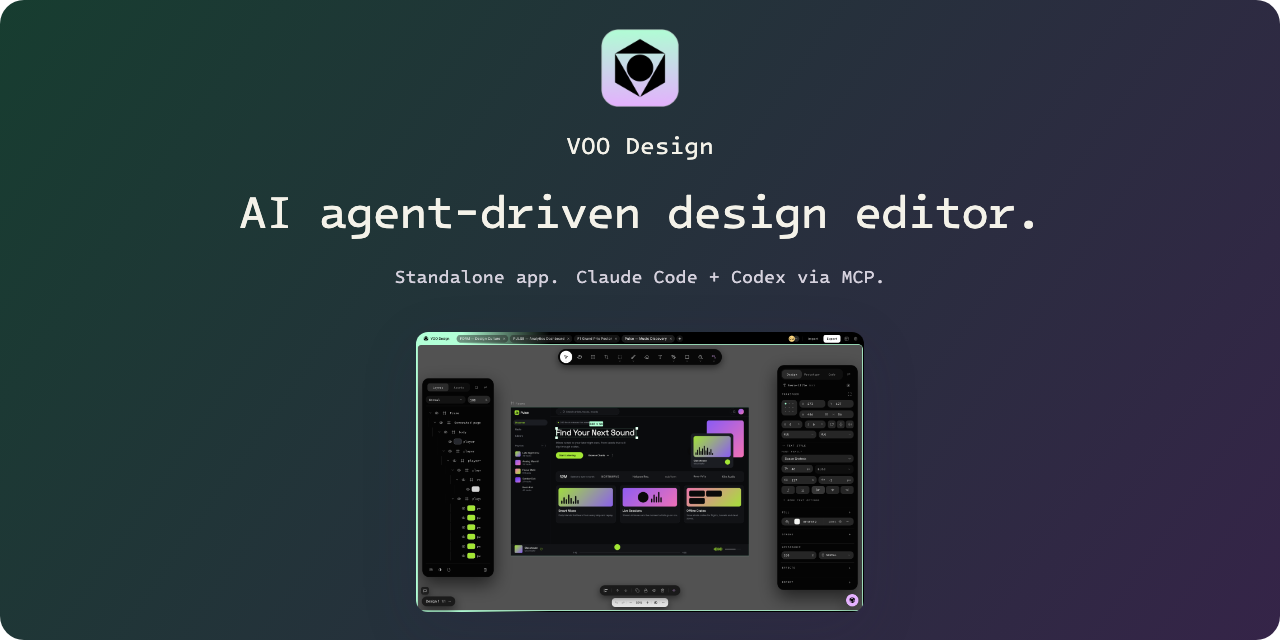
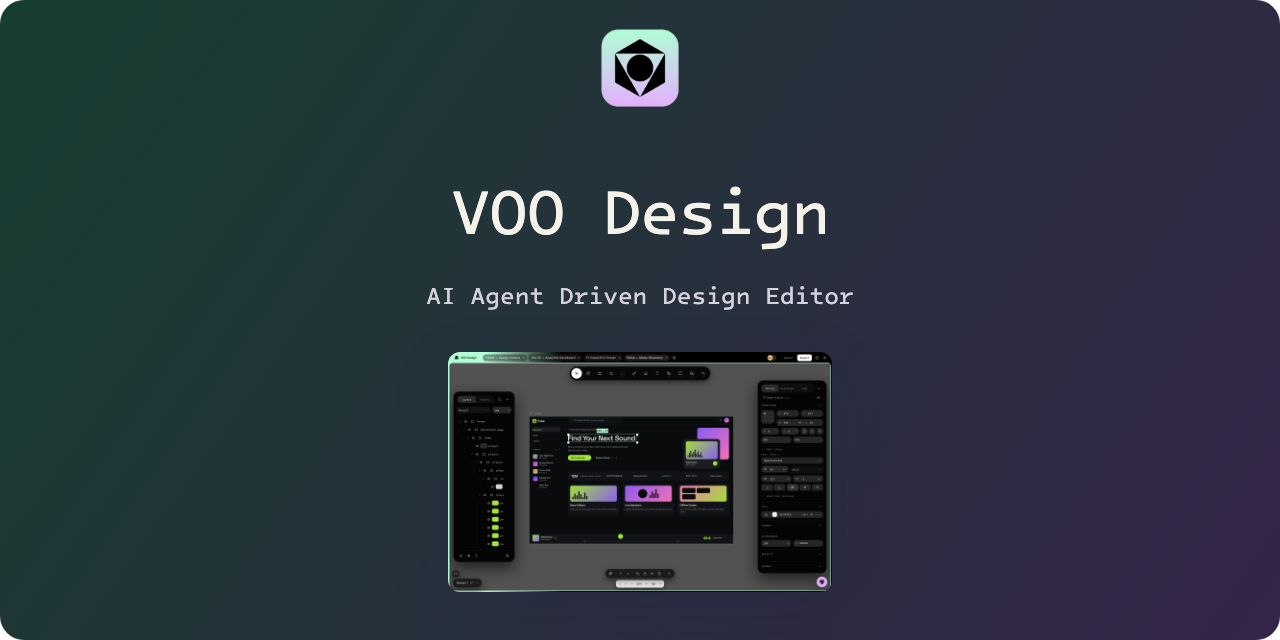
docs: double cover whitespace and clarify title hierarchy

Changed region(s): [[0.25, 0.2812, 0.8125, 0.9688], [0.4375, 0.2188, 0.5625, 0.25], [0.1875, 0.3125, 0.2188, 0.375]]

diff --git a/docs/screenshots/cover-source.html b/docs/screenshots/cover-source.html
@@ -16,32 +16,29 @@
       main {
         position: relative;
         width: 1800px;
-        height: 1720px;
+        height: 2344px;
         overflow: hidden;
         border-radius: 32px;
         background: linear-gradient(125deg, #173d30 0%, #352448 100%);
       }
       .brand {
         position: absolute;
-        top: 72px;
+        top: 144px;
         left: 0;
         width: 100%;
         display: flex;
         flex-direction: column;
         align-items: center;
-        gap: 24px;
-        font-size: 40px;
-        font-weight: 400;
       }
       .brand img { width: 128px; height: 128px; }
       h1 {
         position: absolute;
-        top: 344px;
+        top: 688px;
         left: 0;
         width: 100%;
         text-align: center;
         margin: 0;
-        font-size: 76px;
+        font-size: 112px;
         line-height: 1.15;
         font-weight: 400;
         letter-spacing: -2px;
@@ -49,20 +46,20 @@
       }
       .subtitle {
         position: absolute;
-        top: 480px;
+        top: 960px;
         left: 0;
         width: 100%;
         justify-content: center;
         display: flex;
         gap: 32px;
         margin: 0;
-        font-size: 26px;
+        font-size: 44px;
         color: #d5d1dd;
         line-height: 1.6;
       }
       .editor {
         position: absolute;
-        top: 624px;
+        top: 1248px;
         left: 100px;
         display: block;
         width: 1600px;
@@ -72,20 +69,19 @@
       }
       @media (max-width: 1280px) {
         main { width: 1280px; height: 640px; border-radius: 24px; }
-        .brand { top: 20px; left: 0; font-size: 24px; gap: 12px; }
+        .brand { top: 20px; left: 0; }
         .brand img { width: 96px; height: 96px; }
-        h1 { top: 184px; left: 0; font-size: 46px; letter-spacing: -1.5px; }
-        .subtitle { top: 262px; left: 0; display: flex; gap: 16px; font-size: 18px; line-height: 1.6; }
-        .subtitle span { display: block; }
-        .editor { top: 332px; left: 416px; width: 448px; height: 280px; border-radius: 12px; }
+        h1 { top: 172px; left: 0; font-size: 64px; letter-spacing: -1.5px; }
+        .subtitle { top: 276px; left: 0; display: flex; font-size: 24px; line-height: 1.6; }
+        .editor { top: 352px; left: 448px; width: 384px; height: 240px; border-radius: 12px; }
       }
     </style>
   </head>
   <body>
     <main>
-      <div class="brand"><img src="../../build/icon.png" alt="VOO App Icon" />VOO Design</div>
-      <h1>AI agent-driven design editor.</h1>
-      <p class="subtitle"><span>Standalone app.</span><span>Claude Code + Codex via MCP.</span></p>
+      <div class="brand"><img src="../../build/icon.png" alt="VOO App Icon" /></div>
+      <h1>VOO Design</h1>
+      <p class="subtitle">AI Agent Driven Design Editor</p>
       <img class="editor" src="ui-editor.png" alt="VOO editing a music interface with a text layer selected" />
     </main>
   </body>

diff --git a/docs/quality-progress.md b/docs/quality-progress.md
@@ -215,3 +215,11 @@ node scripts/editor-checks.mjs --evidence /private/tmp/voo-release.json --json
 - Increased the main cover from 1800 × 1400 to 1800 × 1720. Product name grows from 30px to 40px and the slogan from 60px to 76px; larger vertical gaps separate icon, name, title, subtitle and canvas.
 - The main editor screenshot remains 1600 × 1000. The 1280 × 640 social layout retains its aspect ratio with more header space and a proportionally smaller preview. Center alignment, regular Intel One typography, dark gradient and corner treatment remain.
 - Scope: artwork source/exports and documentation only. Exact publication revision, measured spacing and typography checks: `/private/tmp/voo-showcase/product-ui/spacious-cover-publication.json`. Functional product coverage remains unchanged and partial.
+
+## Double-height cover introduction — 2026-10-31
+
+- Doubled the main Logo / slogan introduction region from 624px to 1248px. The full cover is now 1800 × 2344; the editor screenshot remains 1600 × 1000 and moves down intact. Icon and screenshot dimensions are unchanged; title sizes follow the final hierarchy.
+- Increased top padding and vertical gaps; the social preview retains its fixed 1280 × 640 aspect ratio with the updated title hierarchy. Product screenshots and the README display structure remain unchanged.
+- Scope: cover composition/export, example guide and this record only. Exact geometry, final publication revision and export checks: `/private/tmp/voo-showcase/product-ui/double-header-publication.json`. Functional application coverage remains unchanged and partial.
+
+- Final cover hierarchy: standalone App Icon → “VOO Design” main title → “AI Agent Driven Design Editor” subtitle. Removed the small duplicate product name under the icon and the App / CLI explanation from the artwork; those product capabilities remain in README text.

diff --git a/docs/examples/README.md b/docs/examples/README.md
@@ -23,7 +23,7 @@ The three `ui-*.png` images in [screenshots](../screenshots/) are 1600 × 1000 c
 
 ## Repository artwork
 
-- [README cover](../screenshots/cover.png): 1800 × 1720, featuring a real editing screenshot on a dark mint-to-purple gradient. Headings use Intel One Mono Regular (400).
+- [README cover](../screenshots/cover.png): 1800 × 2344, featuring a real editing screenshot on a dark mint-to-purple gradient. Headings use Intel One Mono Regular (400).
 - [Social preview](../screenshots/social-preview.png): 1280 × 640, using the same brand colors and typography for repository sharing.
 - The four `showcase-*.png` files in [screenshots](../screenshots/) are exports of the corresponding document canvases.
 
